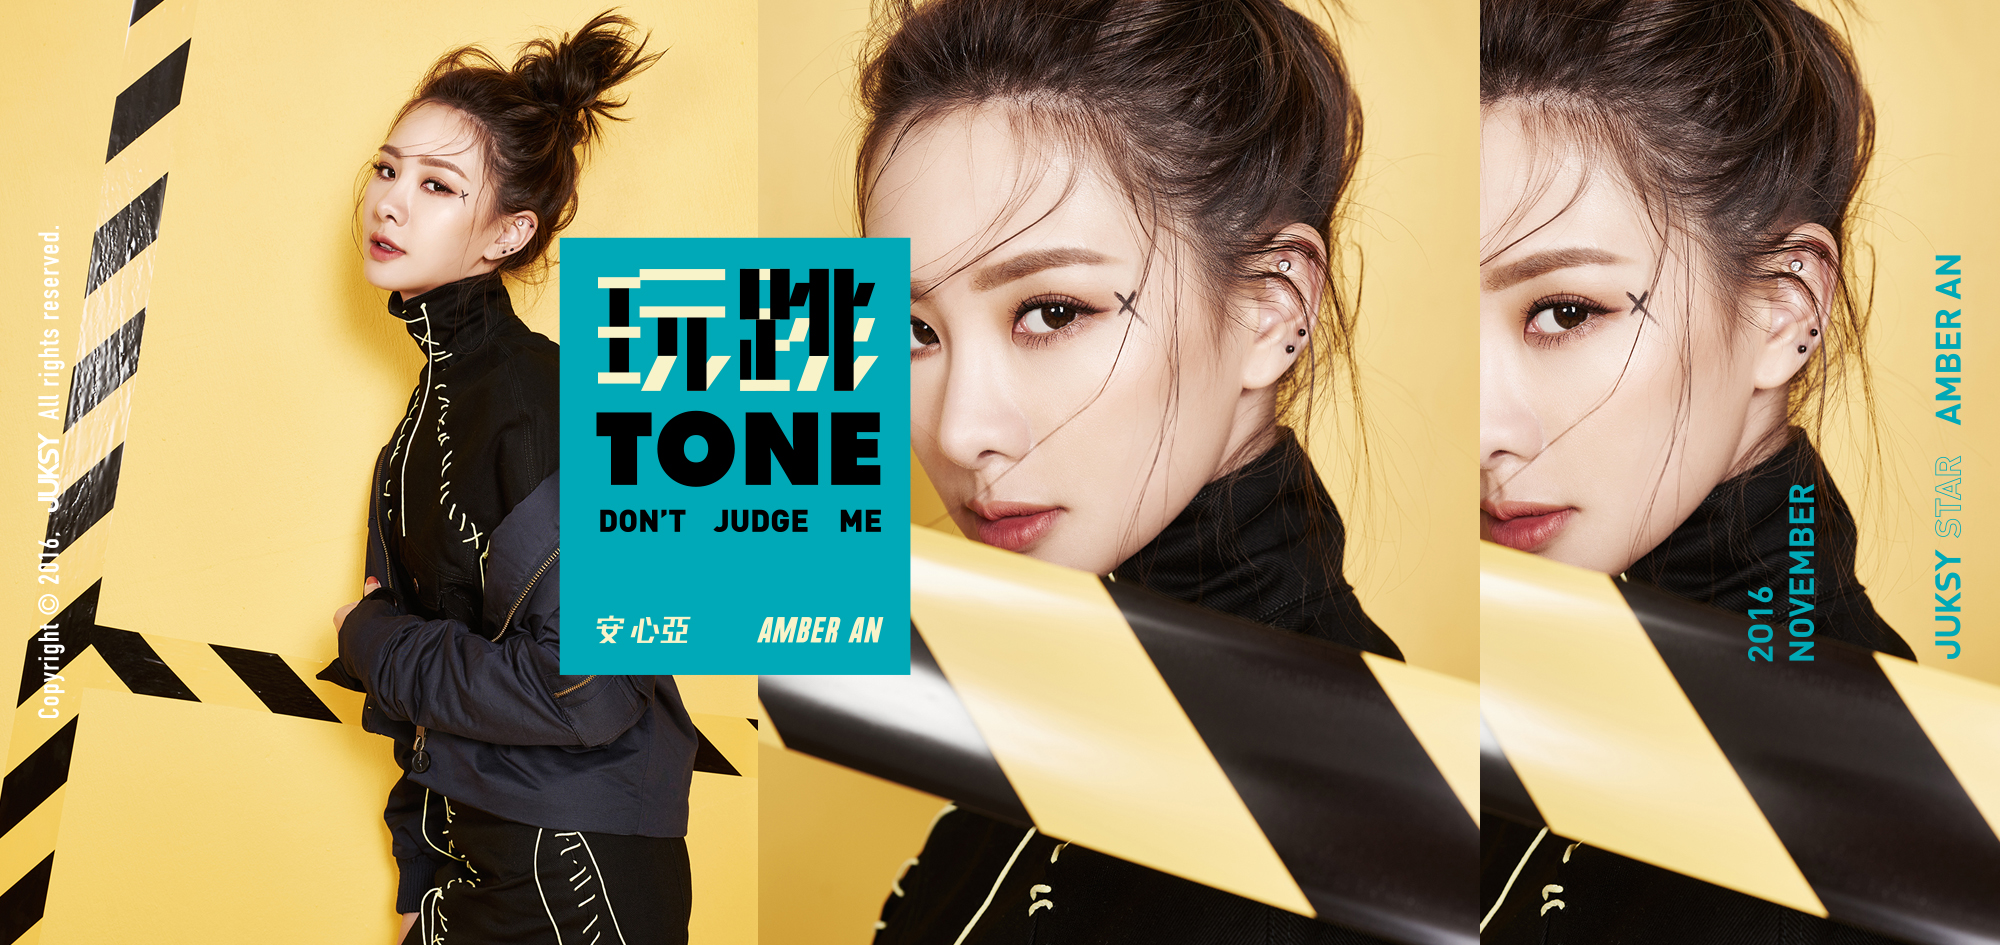
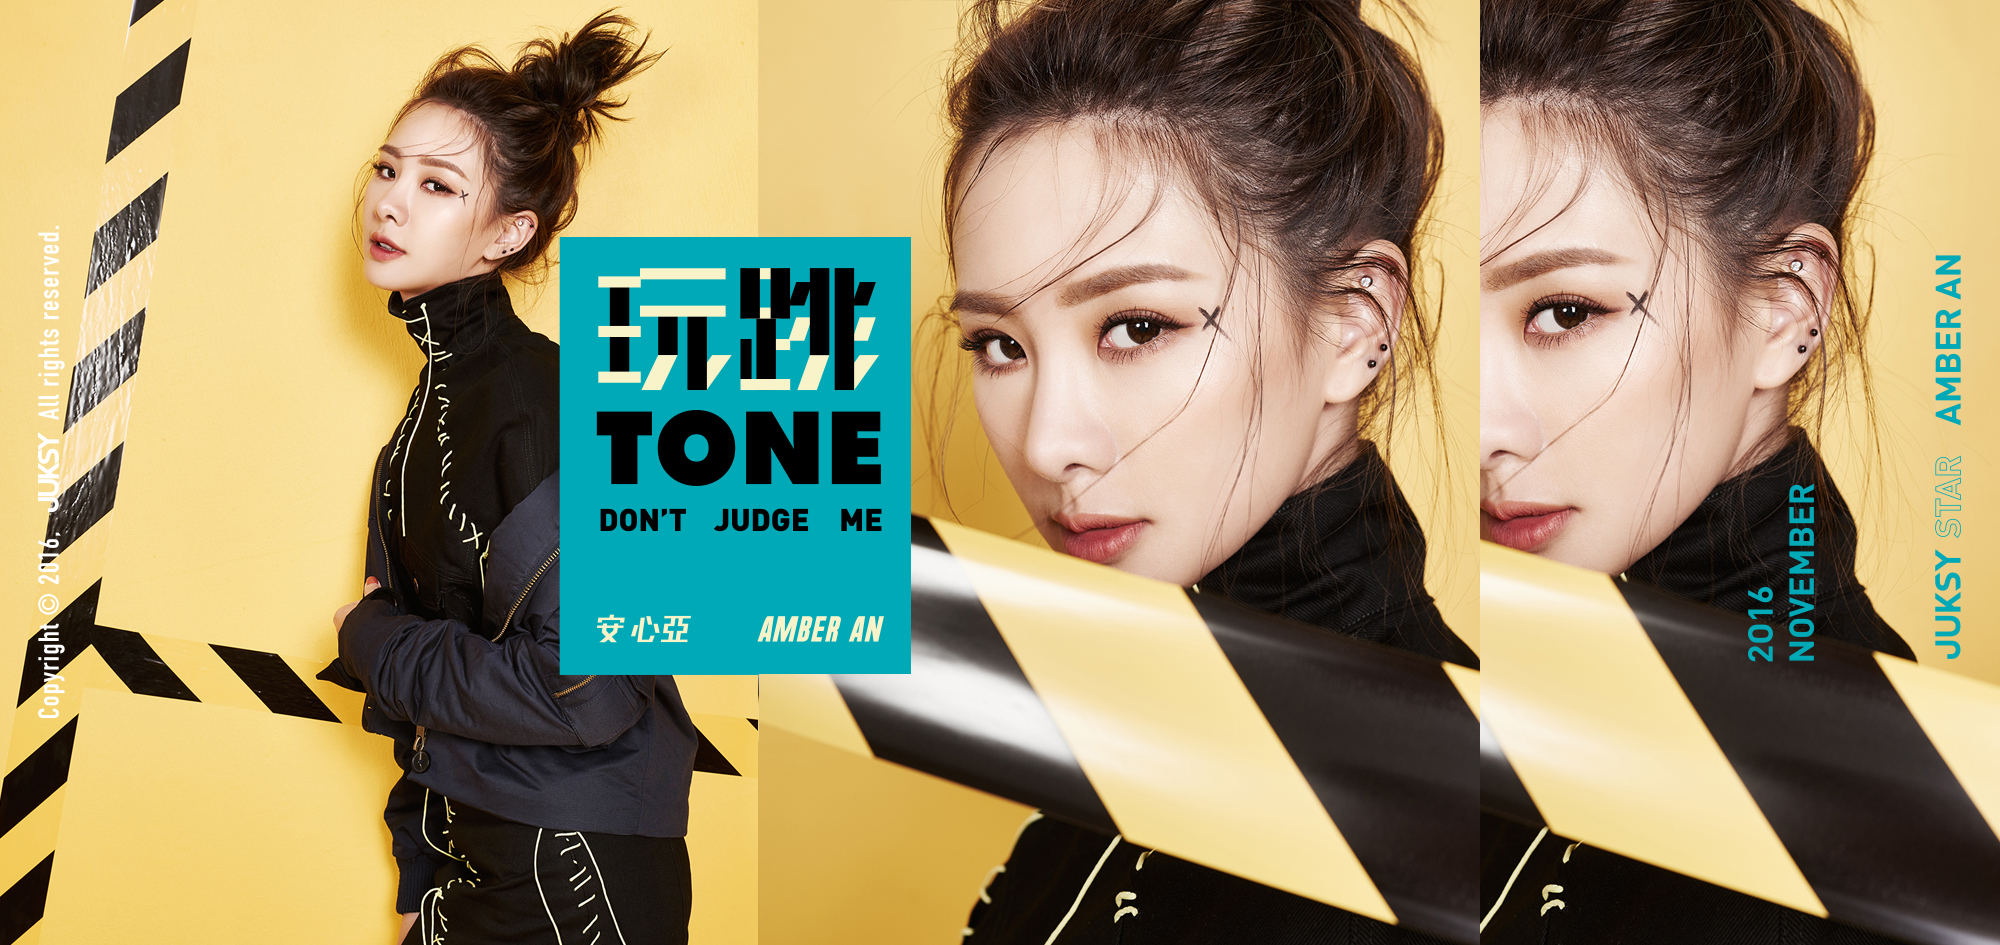
主視覺更換

diff --git a/index.html b/index.html
@@ -46,7 +46,7 @@
               <div data-p="225.00" style="display: none;">
                 <picture class="picture">
                   <source srcset="img/tb/01.jpg" media="(min-width: 768px) and (max-width: 1023px)">
-                  <source srcset="img/pc/01.jpg" media="(min-width: 1024px)"><img src="img/m/01.jpg" alt="picture01">
+                  <source srcset="img/pc/01.jpg" media="(min-width: 1024px)"><img src="img/m/01.png" alt="picture01">
                 </picture>
               </div>
               <div data-p="225.00" style="display: none;">
